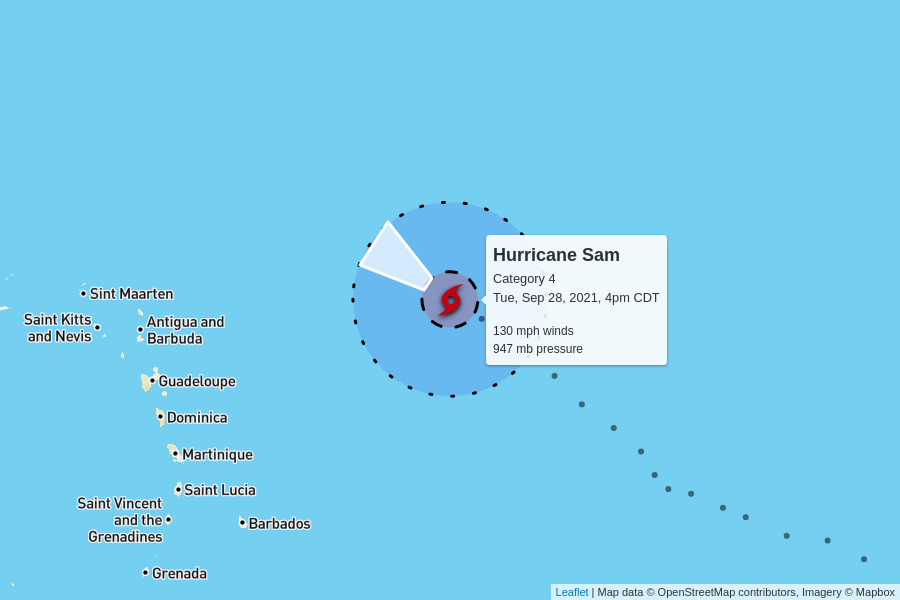
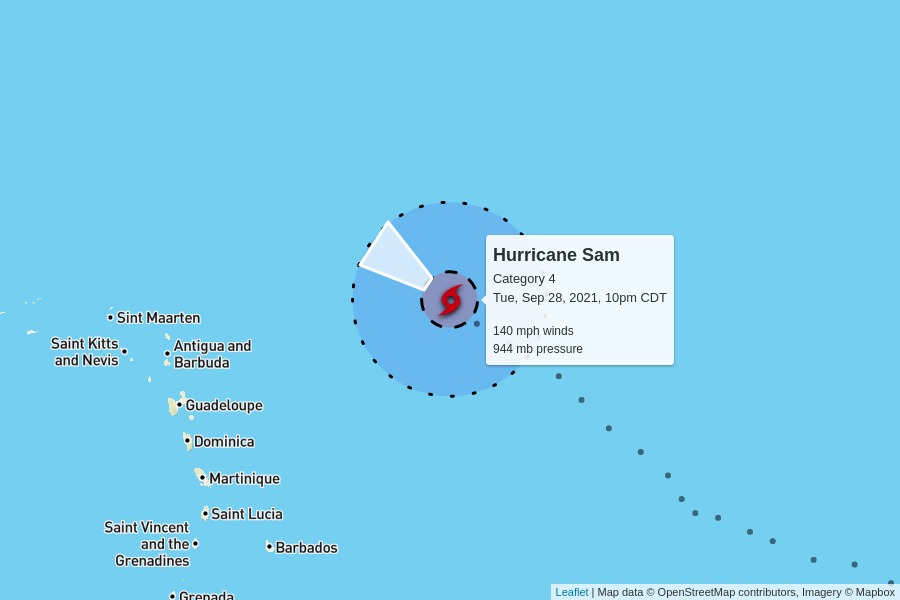
automatic update

diff --git a/docs/index.html b/docs/index.html
@@ -100,7 +100,7 @@
         <td colspan="6" class="storm category-4" >
           <h2>
             Hurricane Sam - Category 4
-            <p class="updated">last updated <span data-time>2021-09-28T21:00:00.000Z</span></p>
+            <p class="updated">last updated <span data-time>2021-09-29T03:00:00.000Z</span></p>
           </h2>
         </td>
       </tr>
@@ -115,8 +115,8 @@
       </tr>
       <tr>
         <td class="spacer"></td>
-        <td>130 mph</td>
-        <td>947 mb</td>
+        <td>140 mph</td>
+        <td>944 mb</td>
         <td>
           9 mph to the northwest
           <br/>
